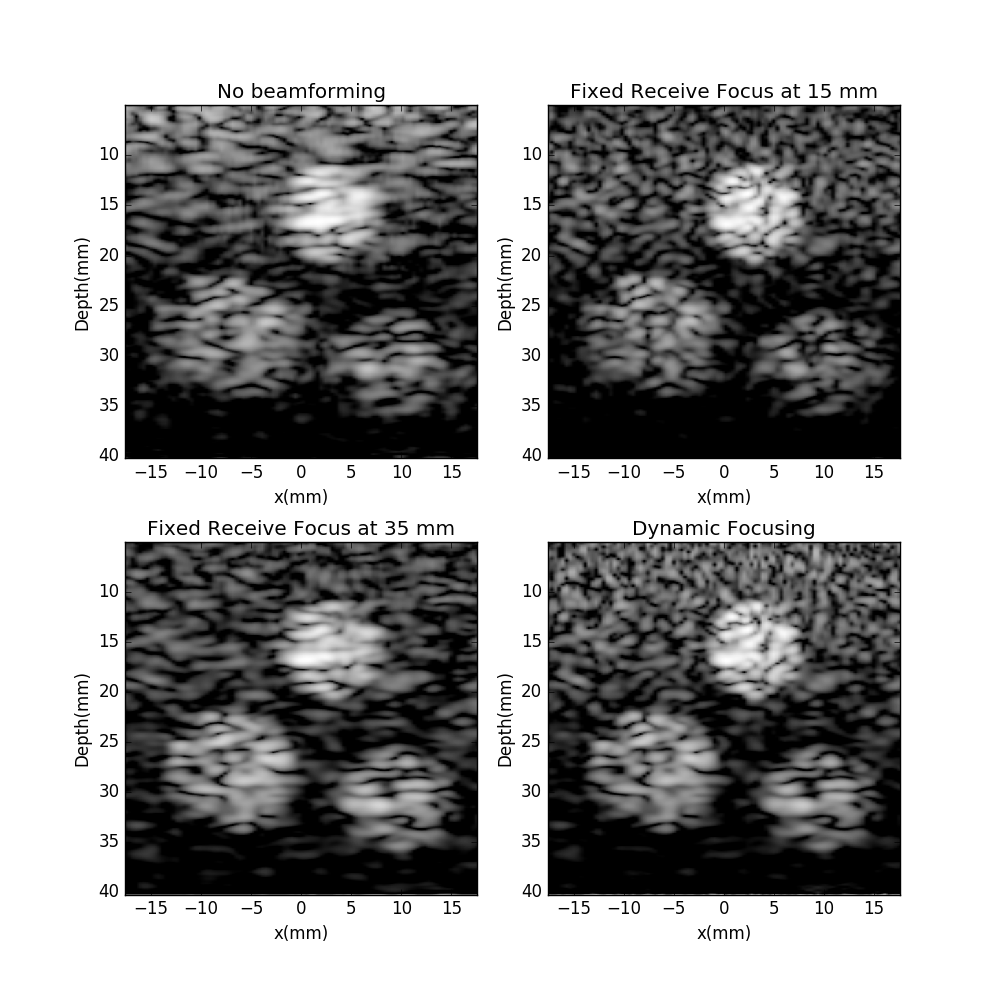
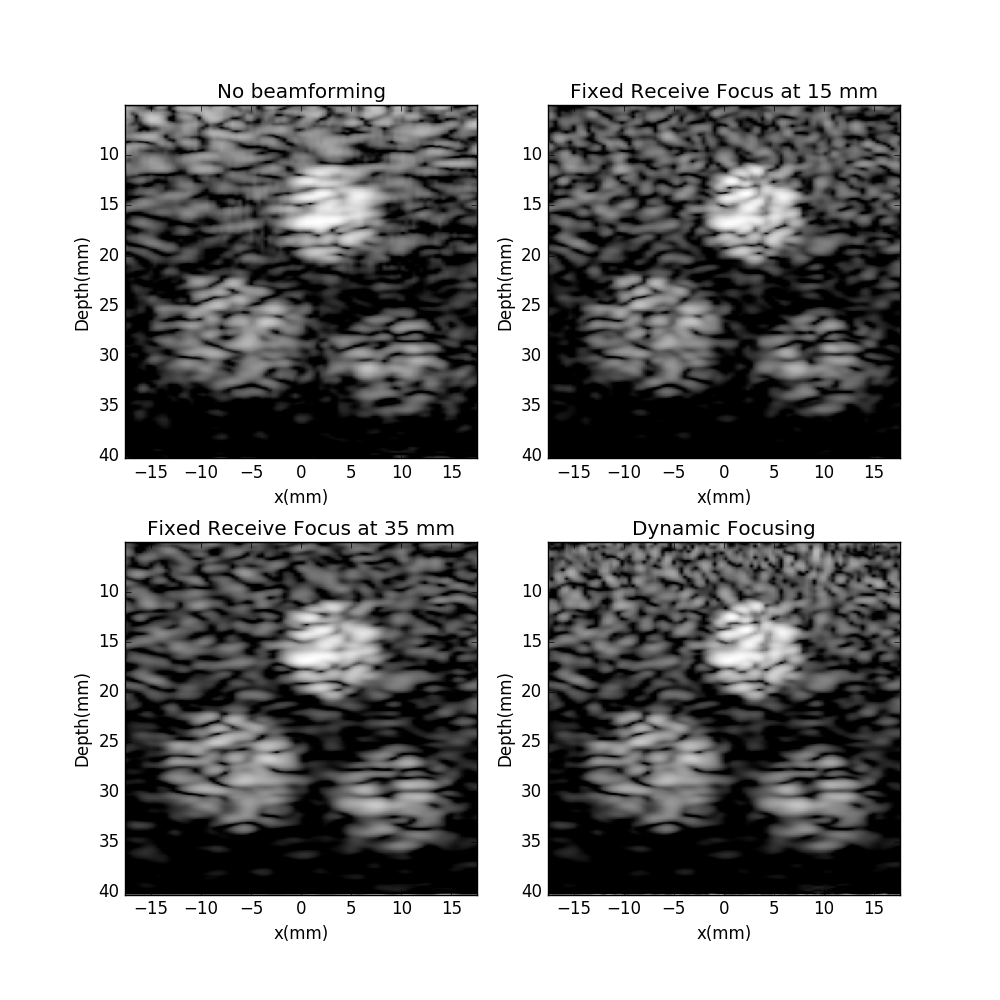
edited comments

diff --git a/linear_array_beamforming.py b/linear_array_beamforming.py
@@ -31,7 +31,7 @@ def getTGC(alpha0, propDist):
     where x is the propagation distance, p(0) is the incident pressure, p(x) is the spatially variant pressure
     As a result,  p(x)/p(0) = 10^(-alphadB*x/20)
 
-    Alpha is actually frequency dependent and modeled as alphaDB = alpha0*f^n, where f is frequency and 0 < n < 1
+    Additionally, alpha is modeled as alphaDB = alpha0*f^n, where f is frequency and 0 < n < 1
     For tissue, n ~ 1. alpha0 is usually the parameter specified in units of dB/(MHz-cm). We can compensate
     therefore by multiplying each A-line by 10^(alpha0*f*propDist*100/20). Note that this does not take into
     account the dissipation of acoustic energy with distance due to non-plane wave propagation.
@@ -48,10 +48,9 @@ def getTGC(alpha0, propDist):
     return tgcGain
 
 def preprocUS(data, t, xd):
-    """After receiving of analog signal data, time-gain compensation is usally applied using an amplifier
-    followed by an anti-aliasing filter (low-pass)  and then A/D conversion. The input data is already digitized, so 
-    no need for anti-alias filtering. Following A/D conversion, one would ideally begin beamforming, however
-    the summing process in beamforming can produce very high values if low frequencies. This can result in the generation
+    """Analog time-gain compensation is typically applied followed by an anti-aliasing filter (low-pass) and then A/D conversion. 
+    The input data is already digitized here, so no need for anti-alias filtering. Following A/D conversion, one would ideally begin beamforming, however
+    the summing process in beamforming can produce very high values if low frequencies are included. This can result in the generation
     of a dynamic range in the data that exceeds what's allowable by the number of bits, thereby yielding 
     data loss. Therefore it's necessary to high-pass filter before beamforming. In addition, beamforming is 
     more accurate with a higher sampling rate because the calculated beamforming delays are more accurately 
@@ -65,6 +64,13 @@ def preprocUS(data, t, xd):
     
     In the filtering step I've appied a band-pass, as higher frequencies are also problematic and are usually
     addressed after beamforming. 
+    
+    inputs: data - transmission number x receive channel x time index
+            t - time vector [s]
+            xd - dector position vector [m]
+    
+    outputs: dataApod - processed data
+             t2 - new time vectorssss    
     """
 
     sampleRate = 1/(t[1]-t[0])
@@ -88,19 +94,22 @@ def preprocUS(data, t, xd):
         dataAmp[m,:,:] = data[m,:,:]*tgc
             
     # retrieve filter coefficients
-    # 
+    
     filtOrd = 201
     lc, hc = 0.5e6, 2.5e6
     lc = lc/(sampleRate/2) #normalize to nyquist frequency
     hc = hc/(sampleRate/2)
     B = signal.firwin(filtOrd, [lc, hc], pass_zero=False) #band-pass filter
 
-    # specify interpolation factor, get apodization window
+    # specify interpolation factor 
     interpFact = 4
     sampleRate = sampleRate*interpFact
     samplesPerAcq2 = samplesPerAcq*interpFact
-    apodWin = np.ones(numProbeChan) #signal.tukey(numProbeChan)
 
+    #get apodization window
+    apodWin =  signal.tukey(numProbeChan) #np.ones(numProbeChan)
+
+    #process
     dataApod = np.zeros((numTxBeams, numProbeChan, samplesPerAcq2))
     for m in range(numTxBeams):
         for n in range(numProbeChan):
@@ -253,7 +262,7 @@ def logCompress(data, dynamicRange, rejectLevel, brightGain):
             brightGain - brightness gain [dB]
     output:
             xdB3 - processed image, dimensions of scanline x depth/time index
-"""
+    """
 
     #compress to dynamic range chosen
     xdB = 20*np.log10(1+data) #add one b/c log10(0) = -inf ('data' should have values >= 0)
@@ -271,7 +280,13 @@ def logCompress(data, dynamicRange, rejectLevel, brightGain):
     return xdB3
 
 def scanConv(data, xb, zb):
-    "create 512x512 pixel, 8-bit image from data"
+    """create 512x512 pixel image
+    inputs: data - scanline x depth/time
+            xb - horizontal distance vector
+            zb - depth vector
+    outputs: imageSC - scanline x depth/time
+             znew - new depth vector
+             xnew - new horizontal distance vector"""
 
     interpFunc = interp2d(zb, xb, data, kind='linear')
     xnew = np.linspace(np.min(xb),np.max(xb), 512)
@@ -288,6 +303,7 @@ def main():
     # data get info
     samplesPerAcq = sensorData.shape[2]
 
+    # time vector for data
     t = np.arange(samplesPerAcq)/sampleRate - toffset
 
     xd = np.arange(numProbeChan)*transPitch
@@ -369,8 +385,6 @@ def main():
     ax4.set_xlabel('x(mm)')
     ax4.set_title('Dynamic Focusing')
     plt.show()
-
-# plt.colorbar()
 
 if __name__ == '__main__':
     main()
